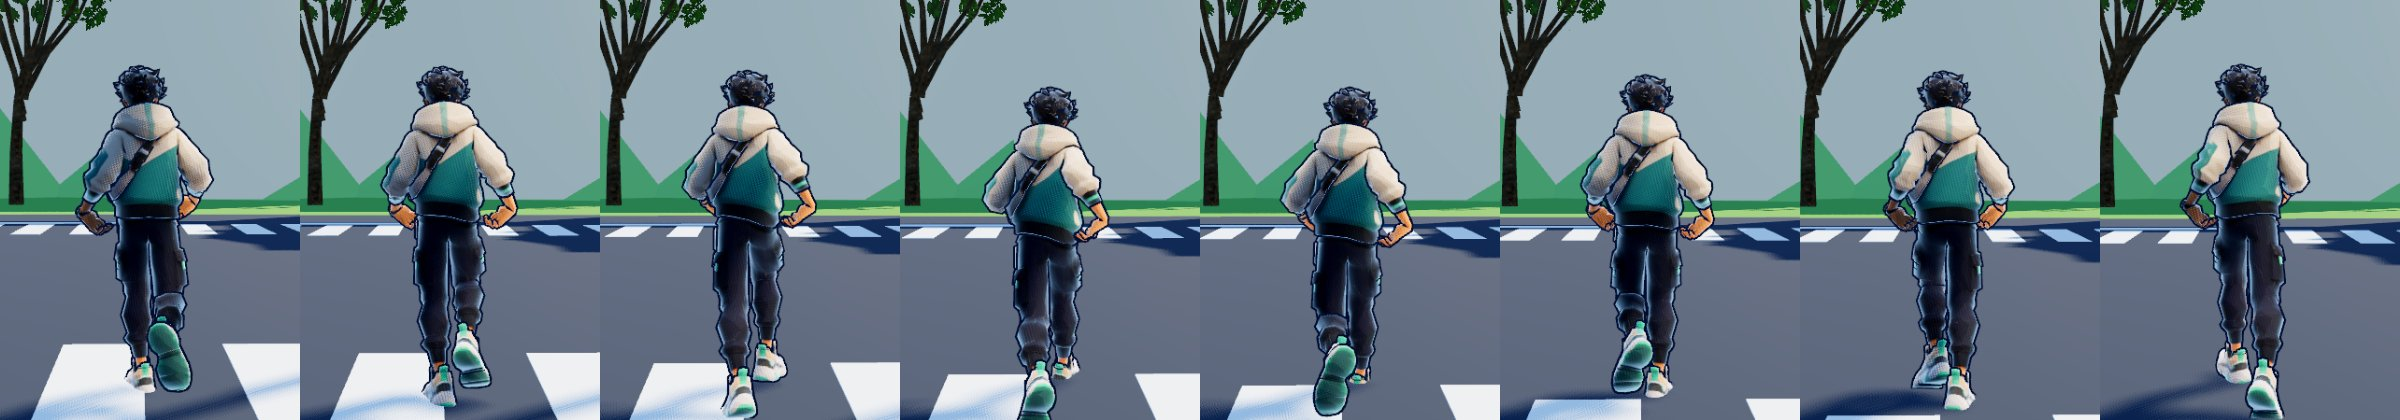
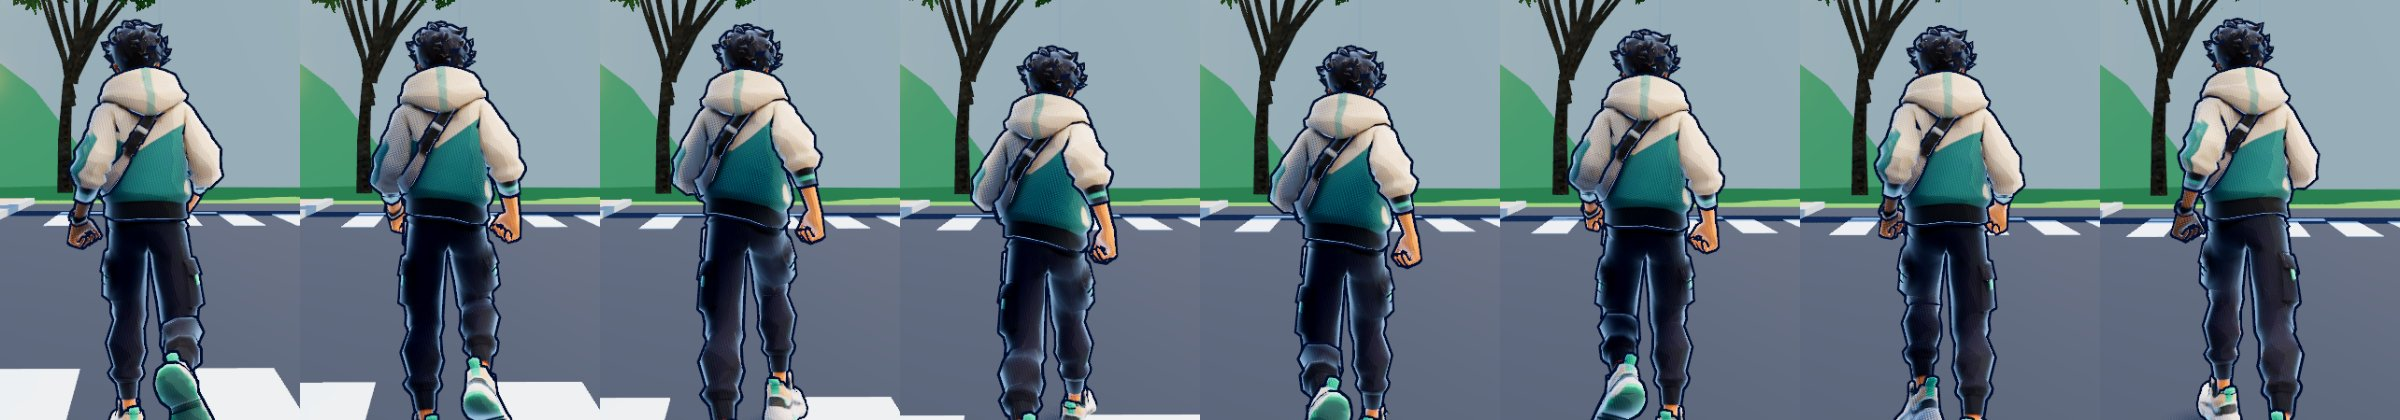
fix: straighten Kavi's wrists and widen his stride
Kavi's rig rests in an A-pose and the Mixamo clips in a T-pose. The hand, which has several child bones, kept the A-pose frame and bent about 65 degrees at the wrist. Hands and other branching bones now inherit their parent's rest alignment. The outward arm swing is removed, and the legs open 3 degrees so the steps no longer cross the centre line.

diff --git a/src/character.ts b/src/character.ts
@@ -37,16 +37,17 @@ function findClip(clips: THREE.AnimationClip[], pattern: RegExp): THREE.Animatio
 
 const suffix = (name: string): string => name.replace(/^mixamorig\d*:?/, "");
 const RETARGET_FPS = 30;
-/** Outward swing (radians, about the body's forward axis) added to retargeted arms: the Mixamo run pumps the fists
- *  across a thin chest, which on a bulky hoodie clenches the hands at the sternum with the elbows poking out. */
-const ARM_SPREAD: Record<string, number> = { Arm: 0.12, ForeArm: 0.1 };
+/** Outward swing (radians, about the body's forward axis) added to retargeted limbs: the Mixamo walk and run set
+ *  each foot on the centre line, which on Kavi's wider hips crossed the steps like a catwalk. */
+const LIMB_SPREAD: Record<string, number> = { UpLeg: 0.05 };
 
-/** World-space correction for a bone inside an arm: each Arm/ForeArm ancestor (or itself) swings it away from the body. */
-function armSpread(b: THREE.Object3D): THREE.Quaternion {
+/** World-space correction for a bone inside a spread limb: each spread ancestor (or itself) swings it away from the body. */
+function limbSpread(b: THREE.Object3D): THREE.Quaternion {
   const q = new THREE.Quaternion();
   for (let o: THREE.Object3D | null = b; o; o = o.parent) {
-    const m = /^(Left|Right)(Arm|ForeArm)$/.exec(suffix(o.name));
-    if (m) q.premultiply(new THREE.Quaternion().setFromAxisAngle(new THREE.Vector3(0, 0, 1), (m[1] === "Left" ? 1 : -1) * ARM_SPREAD[m[2]]));
+    const m = /^(Left|Right)(\w+)$/.exec(suffix(o.name));
+    const angle = m ? LIMB_SPREAD[m[2]] : undefined;
+    if (m && angle) q.premultiply(new THREE.Quaternion().setFromAxisAngle(new THREE.Vector3(0, 0, 1), (m[1] === "Left" ? 1 : -1) * angle));
   }
   return q;
 }
@@ -66,14 +67,20 @@ function retargetClip(clip: THREE.AnimationClip, src: THREE.Object3D, dst: THREE
   const worldP = (o: THREE.Object3D): THREE.Vector3 => o.getWorldPosition(new THREE.Vector3());
   src.updateMatrixWorld(true);
   dst.updateMatrixWorld(true);
-  // per target bone: its source, rest world rotations, and the rest-direction alignment
+  // per target bone: its source, rest world rotations, and the rest-direction alignment. A bone aims at its only
+  // child (a hand at its middle finger); others (hips, chest, finger tips) keep their parent's alignment, so an
+  // A-pose hand follows its T-pose-aligned forearm instead of bending ~65 degrees at the wrist.
+  const aligned = new Map<THREE.Object3D, THREE.Quaternion>();
   const rig = dstBones.map((b) => {
     const s = srcBones.get(suffix(b.name));
-    const align = new THREE.Quaternion();
     const kids = b.children.filter((c) => (c as THREE.Bone).isBone);
-    const sc = kids.length === 1 ? srcBones.get(suffix(kids[0].name)) : undefined;
-    if (s && sc) align.setFromUnitVectors(worldP(kids[0]).sub(worldP(b)).normalize(), worldP(sc).sub(worldP(s)).normalize());
-    return { b, s, fix: armSpread(b), srcRestInv: s ? worldQ(s).invert() : null, dstRest: align.multiply(worldQ(b)), restLocal: b.quaternion.clone() };
+    const aim = kids.length === 1 ? kids[0] : kids.find((c) => /HandMiddle1$/.test(c.name));
+    const sc = aim ? srcBones.get(suffix(aim.name)) : undefined;
+    const align = s && aim && sc
+      ? new THREE.Quaternion().setFromUnitVectors(worldP(aim).sub(worldP(b)).normalize(), worldP(sc).sub(worldP(s)).normalize())
+      : (aligned.get(b.parent!) ?? new THREE.Quaternion()).clone();
+    aligned.set(b, align);
+    return { b, s, fix: limbSpread(b), srcRestInv: s ? worldQ(s).invert() : null, dstRest: align.clone().multiply(worldQ(b)), restLocal: b.quaternion.clone() };
   });
   const parentRest = new Map<THREE.Object3D, THREE.Quaternion>();
   for (const { b } of rig) if (b.parent && !(b.parent as THREE.Bone).isBone) parentRest.set(b.parent, worldQ(b.parent));
